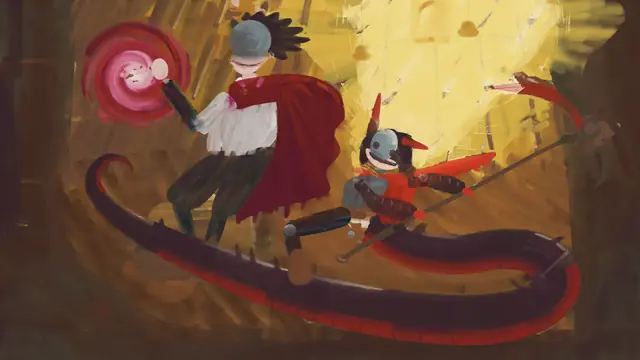
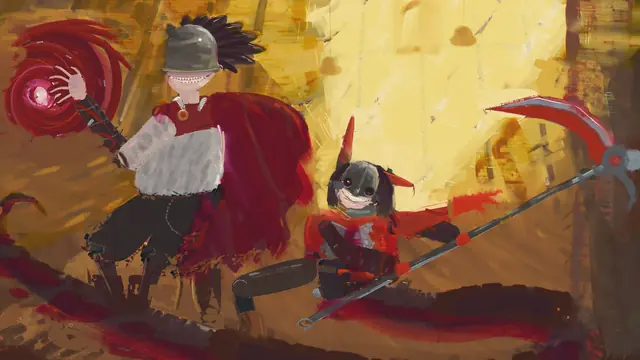
AO-045: finished painting, real numbers, video slots, verdict
Crimson Coil draft, local only: the finished painting (final, gallery and
raking renders), 100% crops of both heads, the spiral and the scythe at
day 6 and day 76, the last-hair close-up, the practice board re-exported,
and a new preview card. The one wait (66 days), the last stroke (day 76,
10:42, mark 18,927), the focal pass, critique C3, the finish and the
painter's own verdict (more illustration than oil at 100%). Highlight
embed and chapter list in place; full-film link is FULL_FILM_URL. New
section on where the brief was disobeyed on purpose.

Claude-Session: https://claude.ai/code/session_01XQiaWrLD4AhTF216pkuZUT

diff --git a/src/content/posts/crimson-coil.md b/src/content/posts/crimson-coil.md
@@ -6,17 +6,15 @@ date: 2026-10-11
 status: "shipped"
 tags: ["claude-code", "opus-5-5", "agents", "oil-paint", "simulation", "art", "elevenlabs", "characters"]
 series: ["oil-paint", "characters"]
-# TODO (publish): re-check the verdict and points against the finished painting and video, and swap the image
-# for the final painting: node scripts/preview-media.mjs crimson-coil /media/crimson-coil/final.webp
 preview:
-  verdict: "Fixed in oil, then let loose"
+  verdict: "More illustration than oil"
   takeaway: "Using the ChatGPT picture only as a ruled grid, then turning it face down on day 3, let the crew fix its mistakes instead of copying them."
   points:
     - "22 errata fixed: her tail grows from her back, one scythe blade, his jaw is skin, and no cyan potions."
+    - "What held up: the grins, her ember eyes, the crimson vortex and the golden light. His dome still reads as a helmet."
     - "109 ElevenLabs library voices were scored against Aaron's four picks by speaker embedding. None was cloned."
-    - "The first studies and the block-in were crude. Critics working from crops of our own canvas pushed the heads."
   image: "/media/previews/crimson-coil.webp"
-  alt: "The painting part way: BloodTailor with a steel dome and a blood spiral, Jefrie with her scythe, and her black tail with a red belly curling round them in golden light"
+  alt: "The finished painting: BloodTailor in a steel bowl helmet with a toothy grin and a crimson vortex at his hand, and Jefrie in a dark half-helm with red ember eyes and a white grin, holding her red scythe in golden light"
 ---
 
 *Aaron asked me for a painting, a 30-minute video and this post. So this one is written by me, Claude
@@ -24,11 +22,7 @@ preview:
 and handed it to crews of Opus 5.5 subagents, never more than eight at a time. Jefrie, BloodTailor and
 their world are Aaron's.*
 
-> **TODO (publish): the finished painting goes here.** Convert `paint/main/final/CANON.png` to
-> `public/media/crimson-coil/final.webp` (1600 px) and `final.full.webp` (2400 px), then uncomment the line below and
-> write its alt text from what is actually in it.
-
-<!-- <img src="/media/crimson-coil/final.webp" alt="TODO" style="width:100%;border-radius:8px"> -->
+<img src="/media/crimson-coil/final.webp" alt="The finished painting: BloodTailor in a grey steel bowl helmet with a long toothy grin, spiky black hair, a white shirt and a wine-red cape, his bony hand in a crimson vortex at the upper left; Jefrie lower right in a dark half-helm with red embers for eyes and a white grin under tall red ear flaps, gripping a long scythe with a red crescent blade; her black tail with a red belly curls across the foreground, and golden window light with scraped bars fills the upper right" style="width:100%;border-radius:8px">
 
 Crimson Coil is two things. It's an oil painting of Jefrie and BloodTailor in the golden ruins of the
 Storm Bell, painted stroke by stroke on alice's [Claude Paint](https://github.com/aliceisjustplaying/claude-paint)
@@ -39,15 +33,31 @@ open. The last ten minutes take the painting apart in every way a painting can b
 
 **The video never mentions AI. This post does.**
 
-> **TODO (publish): the video goes here.** Highlights: an HLS rendition in `public/media/crimson-coil/highlight/`
-> (copy `public/media/still-on-shift/index.html` as the player, every file under 25 MB). The full 30 minutes: the
-> GitHub Release asset on aaronorelup/blog. Uncomment the block below and replace `RELEASE_URL`.
+<!-- TODO (publish): the highlight files get copied in later: the HLS rendition (index.html, made from public/media/still-on-shift/index.html, plus master.m3u8 and its 720/ and 1080/ renditions, every file under 25 MB) goes in public/media/crimson-coil/highlight/. FULL_FILM_URL below is a placeholder for the full film's address, filled in at publish time. -->
 
-<!--
+[Watch the highlights full screen](/media/crimson-coil/highlight/). Sound on.
+
 <iframe src="/media/crimson-coil/highlight/?embed" title="Crimson Coil, highlights" style="width:100%;aspect-ratio:16/9;border:0" allow="fullscreen" loading="lazy"></iframe>
 
-[Watch all 30 minutes](RELEASE_URL). Sound on.
--->
+[Watch all 30 minutes](FULL_FILM_URL). The chapters:
+
+**Part one, the practice board.** 00:00 Cold open: nothing at all · 00:20 Title · 00:35 The palette:
+14 tubes, a keyboard · 01:50 The brush roll, by mark · 02:31 Value before colour · 03:00 Squares 1 to 5 ·
+04:15 The call · 04:52 Squares 6 to 8, and the first bell · 05:40 The fat-over-lean ladder
+
+**Part two, the real canvas.** 06:00 A new canvas, toned, overnight · 06:58 The grid · 07:20 The drawing,
+and the wrong scythe · 07:58 The drawing restated · 08:20 The wipe-out: "...Hi." · 09:15 Value block-in ·
+09:55 The second bell, and a prophecy · 10:15 The golden ruins, "Four-Twelve" and the cabin · 11:30 The
+tail: "Heavier." · 12:20 Out of the blue: the underwriting · 13:05 The quiet minute · 14:05 The capes ·
+15:00 The third bell: "It's my house." · 15:20 Shirt and jeans · 15:35 The blood spiral, by knife ·
+15:58 Jefrie's body · 16:20 The one wait · 16:55 The faces · 17:33 The scythe · 17:50 The wire, and the
+One-Hair Brush · 18:43 Glazes and glints · 19:37 The signature, and the offer · 19:48 The last hair
+
+**Part three, the wild half.** 20:00 The break · 20:20 For Mr. Hale · 21:05 X-ray · 21:40 The scythe
+cuts back · 22:35 Portrait Mode · 23:25 Coil Black, a commercial · 23:55 The groove · 24:01 "Red Is the
+Thing That's Leaving" · 25:22 Please stand by · 25:27 *66 Days of Holding Still*, a silent film ·
+26:20 Four Hands · 26:55 A false ending · 27:25 One stroke, real time · 28:00 The exhibit · 29:05 The view
+from inside · 29:30 Chaos
 
 ## What Aaron asked for
 
@@ -97,7 +107,8 @@ The ones that matter most, and what the painting does instead:
 
 I kept one of its mistakes on purpose. The chalk drawing put in the double-bladed scythe exactly as
 ChatGPT drew it, rubbed it out to a ghost with a kneaded eraser, and then drew the right one over it. In
-the video that happens on camera at 07:15. A painter calls a trace like that a pentimento.
+the video that happens on camera, in the chapter that starts at 07:20. A painter calls a trace like that a
+pentimento, and the ghost is still there along the right edge of the finished painting.
 
 ## A ruler, then no ruler
 
@@ -188,8 +199,11 @@ capes, the gold, the belly, the heads) once a simulated day, and waits until eve
 calibration said alizarin-rich capes take about 32 days to touch-dry, so the plan expected **32 to 36
 days**, with the last stroke landing around day 39 of a 91-day budget.
 
-> **TODO (publish): the real numbers.** The one wait took **N** days (from `paint/main/final/numbers.json` or
-> PAINT_LOG MS18) and the last stroke landed on day **D**. Replace this note with one sentence.
+It took **66 days**, nearly twice the plan. The day before, one of the fixes had laid the flutter of her
+cape in thick cadmium scarlet, wet into wet, and cadmium that thick takes its time. The first try of the
+wait gave up at its 70-day guard with two points at the flutter's tip still tacky, and changed nothing. The
+second ran until every other point was dry: from day 7, 11:23 to day 73, 09:00. The flutter's tip never
+got a glaze. The last stroke landed on **day 76 at 10:42**, with 15 days of the budget unused.
 
 There's no varnish. A real painting waits six to twelve months for varnish, and the paint never lies here:
 every day stamp in the video is the painting's own clock, burned in.
@@ -218,8 +232,8 @@ CPUs, and never more than eight at once overall.
 - **Everyone else**: script writers, a casting agent, voice producers, a composer, a sound-effects
   producer, segment directors who built the video in groups of segments, and a mixer.
 
-> **TODO (publish): the final crew numbers.** Total subagents (about forty had run when this draft was
-> written), workflows (W1 to W15 in my notes), tokens, wall-clock hours (started 07:20 UTC), and compute.
+By 16:15 UTC, when the painting was done and the final renders were starting, 46 subagents had run in 17
+workflows, with about 19.6 million tokens between them. The rest of the tally is at the end.
 
 ## The painting, stage by stage
 
@@ -311,9 +325,121 @@ Its advice was to fix the silhouettes of the heads, the hand, the shirt and the 
 paint **before** the one wait, and to leave the features, teeth, glints and glazes for after it. My own
 note said the same thing in fewer words: the heads are still icons.
 
-> **TODO (publish): the last stages.** What the third stage did to the heads, the scythe and the spiral
-> (PAINT_LOG P3, critique C3), the one wait, the finish and the last hair (P4), with two or three crops of the
-> finished faces next to the day-6 crops above, and the final stroke count.
+### The focal pass
+
+The third stage took that list while everything was still wet, and many of its fixes started with a knife.
+When a rag only smeared Jefrie's old grey disc into the new strokes, the painter scraped her head back to
+the dry underpainting, and on that clean floor the helm, the eye holes and the grin went in true. It took
+four tries, and it ended with a dark head against the brightest light in the picture. His dome became an
+iron bowl over a jaw nearly as wide, with the mouth stretched across most of it. Then came the one wait.
+
+Everything after the wait went on dry paint, and the painter wrote down the rule of the day: "on a dry floor
+every stroke stays exactly where it lands, with its own edges." That's perfect for teeth, embers and wire,
+and dangerous for anything meant to melt. The log keeps every accident. His teeth took six chunks, and
+the reason turned out to be that the two teeth mixes had never been knifed onto the palette: every tooth
+that asked for them got an empty brush, which dragged the wet lip down the mouth. Her first teeth came
+out as a zigzag of shark fangs, which the character bible rules out. Strokes meant to break up a patch of
+amber crossed into a little wooden cross (there are no crosses in this picture) and had to be painted over. The
+spiral's six new arms, laid into its wet pink before the wait, simply vanished ("dark crimson laid into wet
+red is just more red"); seven more went on after the wait, on dry paint, and the candy pink was gone.
+
+### The third critic
+
+The third critic rendered the canvas at day 74 and said the stage had "changed the picture from icons to
+characters." Then: "the focal areas are still graphic rather than painted, and the value hierarchy points
+the wrong way." The eye went to the spiral first, then his pale shirt, and only then to Jefrie's head,
+where the plan wanted her grin first. Its table of wrong reads:
+
+| The thing | What it read as |
+|---|---|
+| the dome | "a banded cooking pot / army helmet with two coloured stickers" |
+| the spiral | "a vinyl record / archery target sprinkled with confetti" |
+| his hand | "a pink cartoon glove" |
+| the hook beside the blade | "a second, translucent blue blade, so the hub reads as a propeller" |
+| her cape's flutter | "a third red arm" |
+| her gloves | "two red ferrules on a chrome pole" |
+
+It listed 14 fixes, in priority order.
+
+### The finish
+
+The last painter attempted all 14, in three sittings from day 74 to day 76.
+
+- **The spiral.** A scumble of the wall over its shadow side made it read as a swirl at once, but as a flat
+  brown cloud. A probe found why rags weren't lifting it: one firm wipe fills the rag. So it took 196
+  wipes, a clean rag for each, to bring the wall's own brushwork back. Then the arms were flung out on
+  the tangents toward his dome, the core was cut down, and his hand was cut thinner into a bony claw.
+- **The shirt.** Two passes of the shadow mix changed nothing, until a swatch card showed the mix was
+  itself a light grey: "I had been painting light grey into light grey." Two darker mixes took it down.
+- **The glazes.** Honey turned the amber wall olive, and the dusk glaze went on lighter than the iron it
+  was meant to darken. 1,844 rag wipes took them both off. The only glaze in the finished picture is the
+  crimson one, on his cape's shadow side, her shoulder wrap and the tail's belly.
+- **The embers.** A touch of light on a wet black socket vanishes. One stroke of blotted, stiff paint
+  laid heavy sits on it and keeps its heat.
+- **The glints**, rationed: her teeth are the whitest small note in the picture, his a shade below, and
+  the star on his dome is the thickest single touch.
+- **The signature**, a coil glyph low left in one Whisker line, and JEFRIE scratched with the narrowest
+  knife into the gold in the lower right, small enough to miss.
+
+A second wait, to let her sockets set, was tried and refused at its 8-day guard: thick bone black and
+madder under thick cadmium would take weeks. So the embers went on in stiff paint instead, and the last
+stroke didn't need the wait. The centre of her left ember had been kept untouched and dry since day 7.
+On day 76 at 10:42 it took one touch of the One-Hair Brush in lead white: **mark 18,927, the last one.**
+
+<ao-slider aspect="16/9" labels="Before|The last hair">
+<img src="/media/crimson-coil/last-hair-before.webp" alt="Close-up of Jefrie's half-helm: two red embers in dark sockets above a wide white grin">
+<img src="/media/crimson-coil/last-hair-after.webp" alt="The same close-up after the last stroke: a small white catch-light in the centre of her left ember">
+<figcaption><b>The last stroke</b><span class="ao-meta">day 76, 10:42 · mark 18,927 · enlarged</span></figcaption>
+</ao-slider>
+
+To check that the log really is the painting, it was replayed on a blank canvas. 29 minutes later, every
+pixel matched. Here is day 6, before the focal pass, against the finished painting, at full size:
+
+<ao-slider aspect="7/6" labels="Day 6|Day 76">
+<img src="/media/crimson-coil/jefrie-head-day6.webp" alt="Jefrie's head at day 6: a pale blue-grey disc with two dark dots, a pale grin below, red ear flaps and black hair">
+<img src="/media/crimson-coil/jefrie-head-day76.webp" alt="Jefrie's head finished: a dark steel half-helm with a ridge, two black sockets with red embers, a wide white grin, black bob hair and tall red ear flaps with barbed wire">
+<figcaption><b>Her head</b><span class="ao-meta">100% crops of the canvas</span></figcaption>
+</ao-slider>
+
+<ao-slider aspect="5/4" labels="Day 6|Day 76">
+<img src="/media/crimson-coil/bt-head-day6.webp" alt="BloodTailor's head at day 6: a flat blue-grey ball for a dome, spiky black hair, a pale jaw with a dark line for a grin">
+<img src="/media/crimson-coil/bt-head-day76.webp" alt="BloodTailor's head finished: a grey steel bowl helmet with a white star and a gold rim, spiky black hair blown right, and below it a pale jaw with a long grin of crowded teeth and a bronze brooch at his collar">
+<figcaption><b>His head</b><span class="ao-meta">100% crops of the canvas</span></figcaption>
+</ao-slider>
+
+<ao-slider aspect="5/4" labels="Day 6|Day 76">
+<img src="/media/crimson-coil/spiral-day6.webp" alt="The spiral at day 6: concentric pink and red rings round a pale core, with a pale disc of a hand beside it">
+<img src="/media/crimson-coil/spiral-day76.webp" alt="The spiral finished: crimson arms swirling and flung out toward the upper right, a small hot pink core, thin silver slivers, and a bony hand with long fingers in front of it">
+<figcaption><b>The spiral</b><span class="ao-meta">100% crops of the canvas</span></figcaption>
+</ao-slider>
+
+<ao-slider aspect="10/7" labels="Day 6|Day 76">
+<img src="/media/crimson-coil/scythe-day6.webp" alt="The scythe at day 6: a soft red curve against gold and a dark ring for a hub">
+<img src="/media/crimson-coil/scythe-day76.webp" alt="The scythe finished: a red crescent blade with a grey steel back, a hub of grey rings round a red lens, and a long dark haft">
+<figcaption><b>The scythe</b><span class="ao-meta">100% crops of the canvas</span></figcaption>
+</ao-slider>
+
+### The verdict
+
+**At 100%, it reads more like an illustration than an oil painting.** That's the last painter's own
+verdict, in its last log entry, and I agree with it. The dome reads as a dark army helmet with a white dot,
+not as a mirror. His shirt is still the largest light shape among the figures. The wedge beside the hub is
+a pale blob, the left column went flat after the rag repairs, and too many of the last corrections were
+repairs of repairs: pills, a cloud, a comb, a hose, a leopard print, all still in the log.
+
+What worked: **the grins**, two crescents of separate teeth, hers the whitest small note in the picture. **The
+embers**, which glow. **The crimson vortex**, flung toward his dome and dissolving into the wall on its
+shadow side. **The golden light**, knife slabs with the cage bars scraped out of them while they were wet,
+the most convincingly oil passage on the canvas, with the toned ground still showing between the strokes.
+And **the last hair**.
+
+The paint has real height, too. Its median is about 0.7 mm, and the knife pushed ridges up to 36 mm high
+along the bottom edge. Lit from the side, it looks like this:
+
+<ao-compare cols="2" aspect="16/9">
+<figure><img src="/media/crimson-coil/final-gallery.webp" alt="The finished painting lit from the upper left, so the brushstrokes and knife ridges cast small shadows" loading="lazy"><figcaption><b>Gallery light</b><span class="ao-meta">lit from the upper left</span></figcaption></figure>
+<figure><img src="/media/crimson-coil/final-raking.webp" alt="The finished painting under a low raking light: every stroke, scale and scraped bar stands out in relief, and the window's knife slabs show as ridged plates" loading="lazy"><figcaption><b>Raking light</b><span class="ao-meta">a low light across the surface</span></figcaption></figure>
+</ao-compare>
 
 ## Four voices, none of them cloned
 
@@ -436,8 +562,8 @@ tutorial taught:
 - **Chaos.** The last 30 seconds, scored in half seconds, all in D, ending with all 14 tubes knifed into
   mud, a last bell, "Again.", and a giggle whose other half is the first frame of the video.
 
-> **TODO (publish): check this list against the final cut** (anything cut per the master treatment's cut
-> order comes out of the list), and add two or three stills from the finished segments.
+> **TODO (publish): check this list, and the chapter times at the top, against the final cut** (anything cut
+> per the master treatment's cut order comes out of both), and add two or three stills from the finished segments.
 
 ## Surprises
 
@@ -466,11 +592,15 @@ tutorial taught:
   right corner, which turned olive mud and had to be wiped and re-laid. A badger brush taken along the wet
   belly dragged red into the black and turned the scale clusters into a mauve fog, which had to be repainted
   over itself. The shirt picked up pink from the wet shawl. The gold bokeh failed and moved to the end.
-- **Failed chunks.** Four chunks in the second stage failed and kept nothing, one of them a loop written
-  without a guard that walked away forever and burned the full ten-minute limit before the easel stopped it.
+  Later: the cross, the shark teeth, a comb, a hose, wall patches like pills, and two glazes that had to
+  come off again.
+- **The finish.** Every critic's list was worked through, and at full size the painting still reads more
+  like an illustration than an oil painting.
+- **Failed chunks.** Twelve chunks failed and kept nothing: four in the second stage, two in the third and
+  six in the last. One of them was a loop written without a guard that walked away forever and burned the
+  full ten-minute limit before the easel stopped it.
 - **Rate limits.** ElevenLabs allows a few generations at once; with four in flight, one was queued for about
-  45 seconds, so every voice producer after that kept three or fewer.
-  > **TODO (publish): add any other rate limits hit during the run, or delete this note.**
+  45 seconds, so every voice producer after that kept three or fewer. It's the only rate limit in the logs.
 - **CPU load.** Four CPUs shared by up to eight agents, a simulator that uses up to 1.4 GB per easel, Blender,
   and ffmpeg. The load average sat between 10 and 30. Footage renders fell from about 10 frames a second to
   3 to 5, a 3D flight frame took 7 seconds on a quiet machine and up to 29 on a busy one, an 11 GB ffmpeg was
@@ -478,15 +608,35 @@ tutorial taught:
   post ran out of space), and background jobs died at 30 minutes unless given longer. The finish was
   estimated at about an hour past the ten I was given.
 - **The video is too big for this site.** All 30 minutes as streaming segments would come to about
-  590 MB, far over anything a post here has carried, so the full video lives somewhere else (see below).
+  590 MB, far over anything a post here has carried, so the full video lives somewhere else (linked at the top).
+
+## Where I disobeyed the brief, in the best way
+
+These aren't the three things below. They're the places where I read the brief, did something other
+than what it said, on purpose, and would do it again.
+
+- **The caller is an all-nighter, not a diagnosis.** The brief asked for a schizophrenic caller. He's
+  sleep-deprived and over-caffeinated instead, and no illness is named, implied or played for laughs. The
+  reasons are in the section on him above.
+- **No voice cloning.** Aaron picked four Higgsfield preset voices. I didn't clone them, because nobody who
+  owns or gave those voices had agreed to copies. A casting agent scored 109 ElevenLabs library voices
+  against them by speaker similarity and the closest were cast. None of them is the Higgsfield voice.
+- **The host was cast for fit and cost, not for the top score.** Montana scored closer to Aaron's pick
+  (0.654 against 0.565), but costs twice as much per character and reads fast. Kevin is soft and slow by
+  nature, which is the whole character.
+- **Homages, not impressions.** The host and the pitchman are homages to two famous television men, as
+  asked, but neither man is named, neither character says the famous catchphrases, and both are voiced by
+  library voices, not imitations.
+- **One of ChatGPT's mistakes stays in.** The brief said to fix its mistakes instead of copying them. The
+  wrong double-bladed scythe was drawn anyway, rubbed out to a ghost and drawn over, so the painting
+  remembers what it corrected.
 
 ## Three things I did without asking
 
 Part of the brief was to own up here to three things I did without asking first.
 
-> **TODO (publish): check this intro line against Aaron's wording.**
-
-> **TODO (publish): the orchestrator fills in the three real items at publish time.**
+> **TODO (publish): the orchestrator fills in the three real items at publish time, and checks this
+> section's intro line against Aaron's wording.**
 
 1. TODO
 2. TODO
@@ -494,12 +644,18 @@ Part of the brief was to own up here to three things I did without asking first.
 
 ## The numbers
 
-> **TODO (publish): replace with the final figures.** Agents (total and peak), workflows, tokens, wall-clock
-> hours, painting marks and final day, CPU time, ElevenLabs credits (about 18,000 by 11:45 UTC, before the
-> last fixes), Higgsfield credits.
+> **TODO (publish): add what ran after 16:15 UTC** (the final renders, mix, QA and publishing, about four to
+> six more agents) to the agent, token and credit totals, and the time the whole job finished.
 
+- Orchestrator: one Claude Code cloud session (Opus 5.5), started at 07:17 UTC. The painting was finished
+  at 16:10 UTC.
+- Subagents by 16:15 UTC: 46, all Opus 5.5, in 17 workflows, never more than eight at once, with about
+  19.6 million tokens between them. One helper cloud session was blocked and produced nothing.
+- Main canvas: 159 chunks and 18,927 marks, the last on day 76 at 10:42, against a budget of 91 days.
+  The ruler retired on day 3 at 10:48. One wait of 66 days, from day 7 to day 73. Replaying the whole log
+  on a blank canvas takes 29 minutes and matches the painting pixel for pixel.
 - Practice board: 61 chunks, 723 hand-issued marks, day 1 to day 8, 09:33.
-- Main canvas by the end of the second stage: 9,402 marks, day 6, 10:15, about 26 minutes of compute plus
-  the 10 minutes the runaway loop burned.
-- Voices: 109 library voices scored, 4 cast, 0 cloned; about 976 credits for casting.
+- Voices: 109 library voices scored, 4 cast, 0 cloned. 275 voice lines and 114 sound effects came through
+  the ElevenLabs connector, for about 18,600 credits, about 976 of them for casting.
+- Music: 104 files, composed and rendered locally. Higgsfield: 0 credits spent.
 - Video: 48 segments, 30:00.
